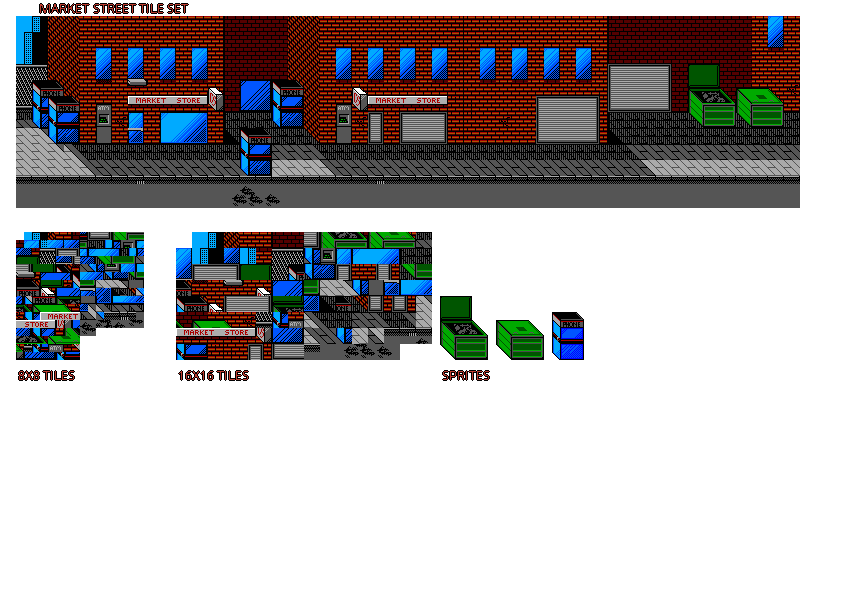
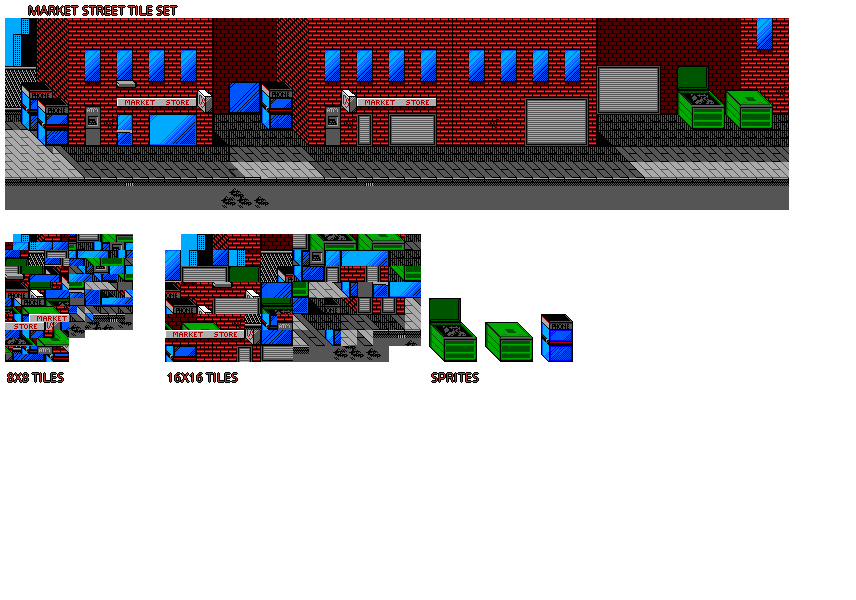
Adicionado novo background

Changed region(s): [[0.0, 0.0, 0.9416, 0.66]]

diff --git a/background.py b/background.py
@@ -6,8 +6,7 @@ class Background():
     def __init__(self):
         self.backgroundwidth = SCREEN_WIDTH * 3
         self.spritesheet = Spritesheet(resource_path("images/bg_reference.png"))
-        self.background = self.spritesheet.image_at((14,15,783,193))
-        #self.background = pygame.image.load(resource_path("images/bg_reference.png"))
+        self.background = self.spritesheet.image_at((15,15,773,190))
         self.background = pygame.transform.scale(self.background, (self.backgroundwidth, SCREEN_HEIGHT))
         self.rect = self.background.get_rect()
         self.step = 0
